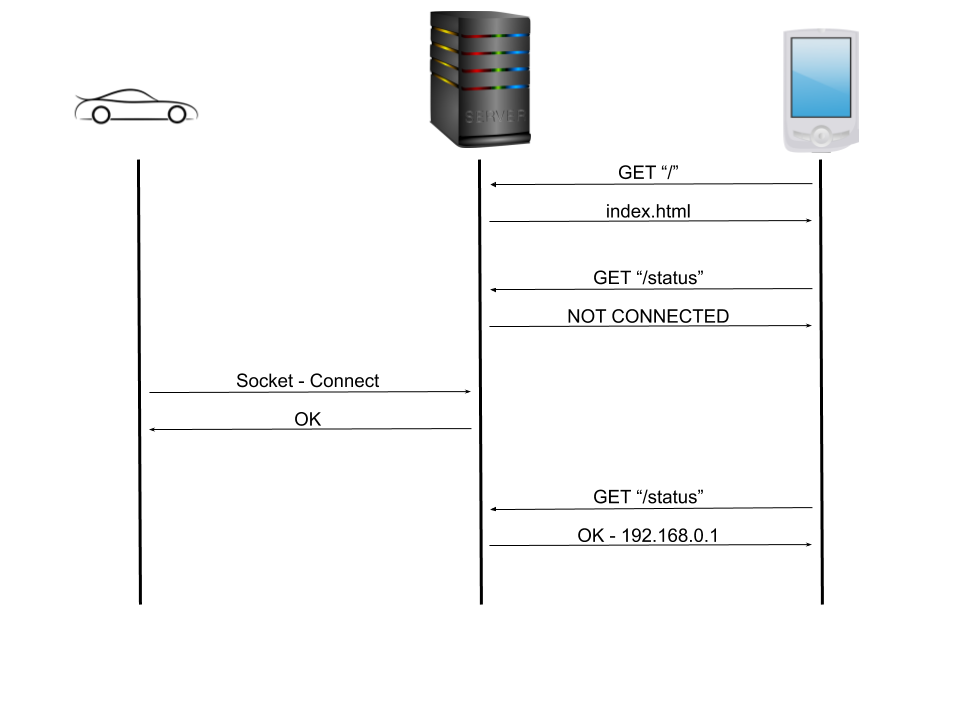
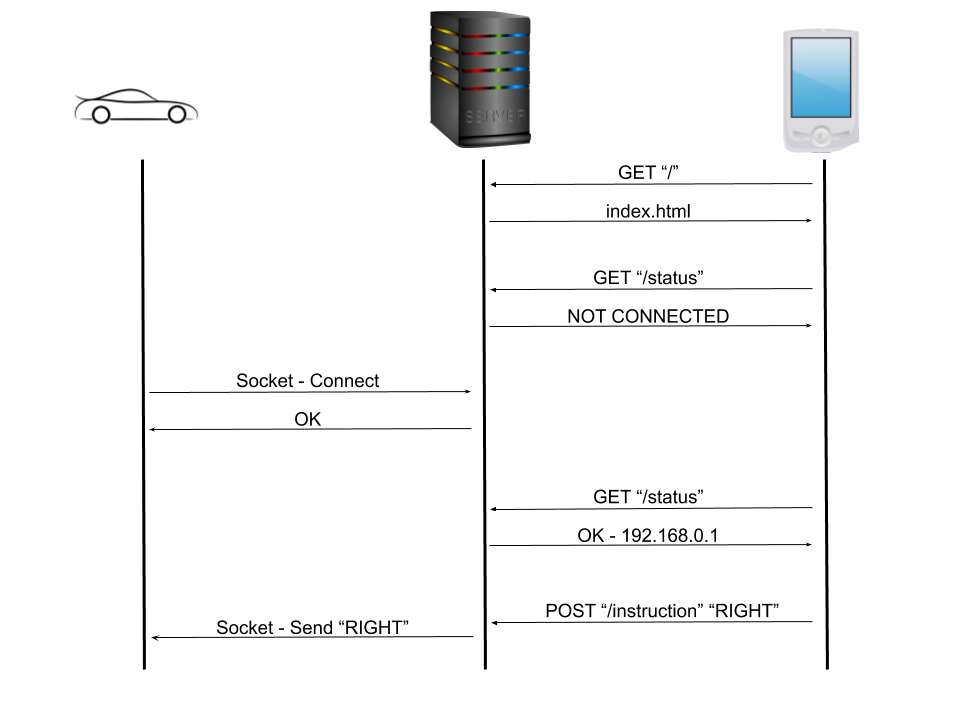
cool stuff

diff --git a/README.md b/README.md
@@ -2,7 +2,7 @@
 
 Elli is a simple car like platform capable to move based on the instructions recieved over the internet.
 
-Here is a diagram of how connection is established:
+Here is a diagram of sommunication flow:
 
 <p align="center">
   <img src="./assets/connections.png"/>
